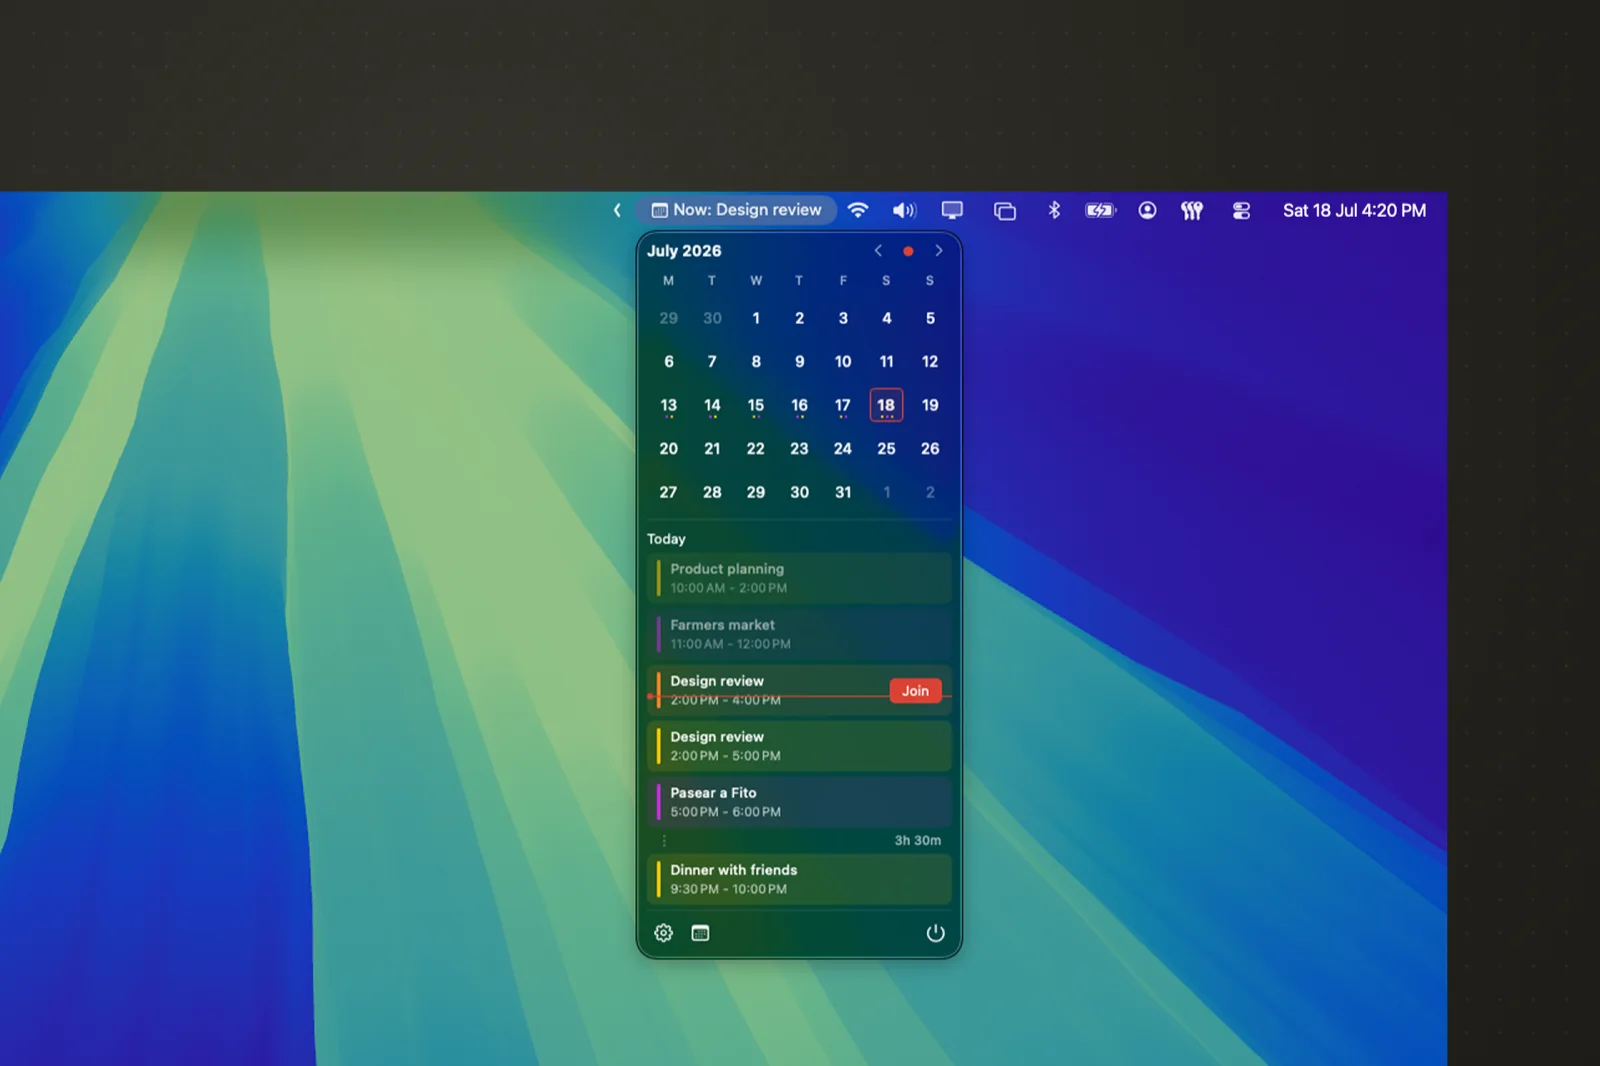
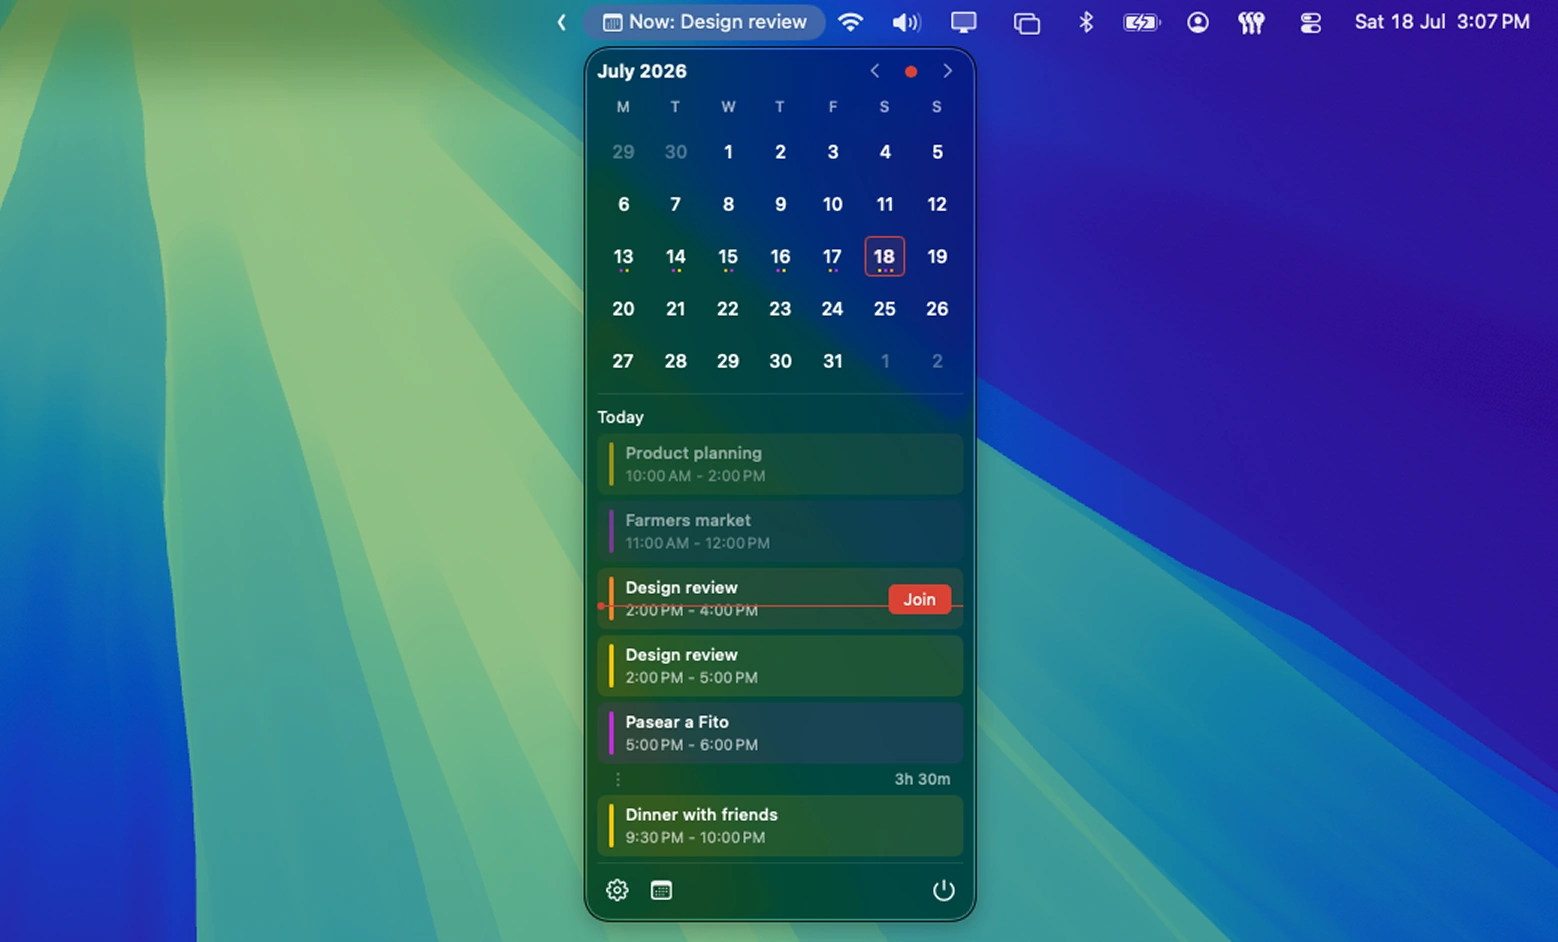
feat(web): swap hero for a real full-screen popover capture
Replace the composed OpenScreen-style shot with an actual macOS capture of
the menu-bar chip and open popover. Encode at native 1558x942 with cwebp
-q 95 (~100 KB) so the popover's UI text stays crisp at 2x. Retire the
abandoned composite sources; hero.png is now the single source.

diff --git a/assets/README.md b/assets/README.md
@@ -5,18 +5,16 @@ where they are consumed; the editable sources live here.
 
 ## Website hero
 
-- `hero-source.png` — original hand-composed shot (menu-bar chip + open
-  popover on the brand gradient), clock reading 3:07.
-- `hero-shot.png` — same composition with the menu-bar clock patched to 4:20;
-  the shipped source of the hero.
-- `../website/public/hero.webp` — the served asset: `hero-shot.png` resized to
-  1600×1066 and encoded with `cwebp -q 84` (~44 KB, the hero's LCP element).
+- `hero.png` — the source: a real full-screen capture of the menu-bar chip and
+  the open popover (1558×942).
+- `../website/public/hero.webp` — the served asset: `hero.png` encoded at native
+  resolution with `cwebp -q 95` (~100 KB, the hero's LCP element). High quality
+  keeps the popover's UI text crisp; native width covers 2× on Retina.
 
-To regenerate the web asset after editing `hero-shot.png`:
+To regenerate the web asset after replacing `hero.png`:
 
 ```sh
-sips --resampleWidth 1600 assets/hero-shot.png --out /tmp/hero.png
-cwebp -q 84 /tmp/hero.png -o website/public/hero.webp
+cwebp -q 95 -m 6 assets/hero.png -o website/public/hero.webp
 ```
 
 ## Tooling
@@ -24,6 +22,6 @@ cwebp -q 84 /tmp/hero.png -o website/public/hero.webp
 - `../scripts/generate_hero_shot.swift` — utility that composites a raw
   full-screen capture (popover + optional menu-bar chip) onto the brand
   gradient with a dot-grid and soft shadow (CleanShot/OpenScreen "menu opened"
-  look). Kept for producing future shots from a fresh capture.
+  look). Not used for the current hero; kept for producing composed shots.
 - `../scripts/generate_dmg_background.swift` — renders
   `../Config/[email redacted]`, the branded DMG installer backdrop.